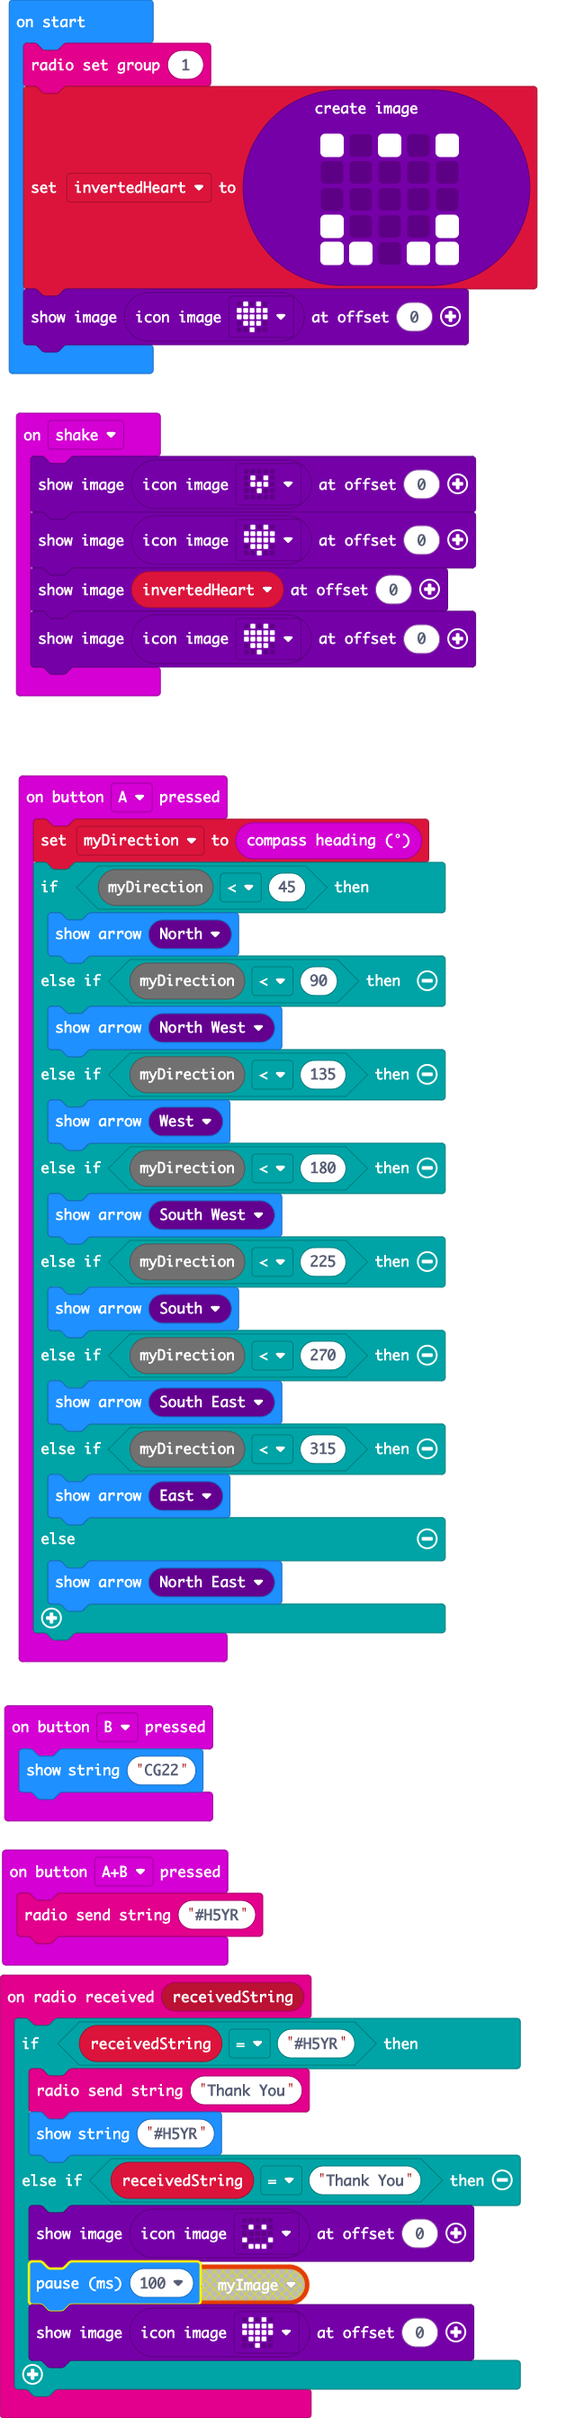
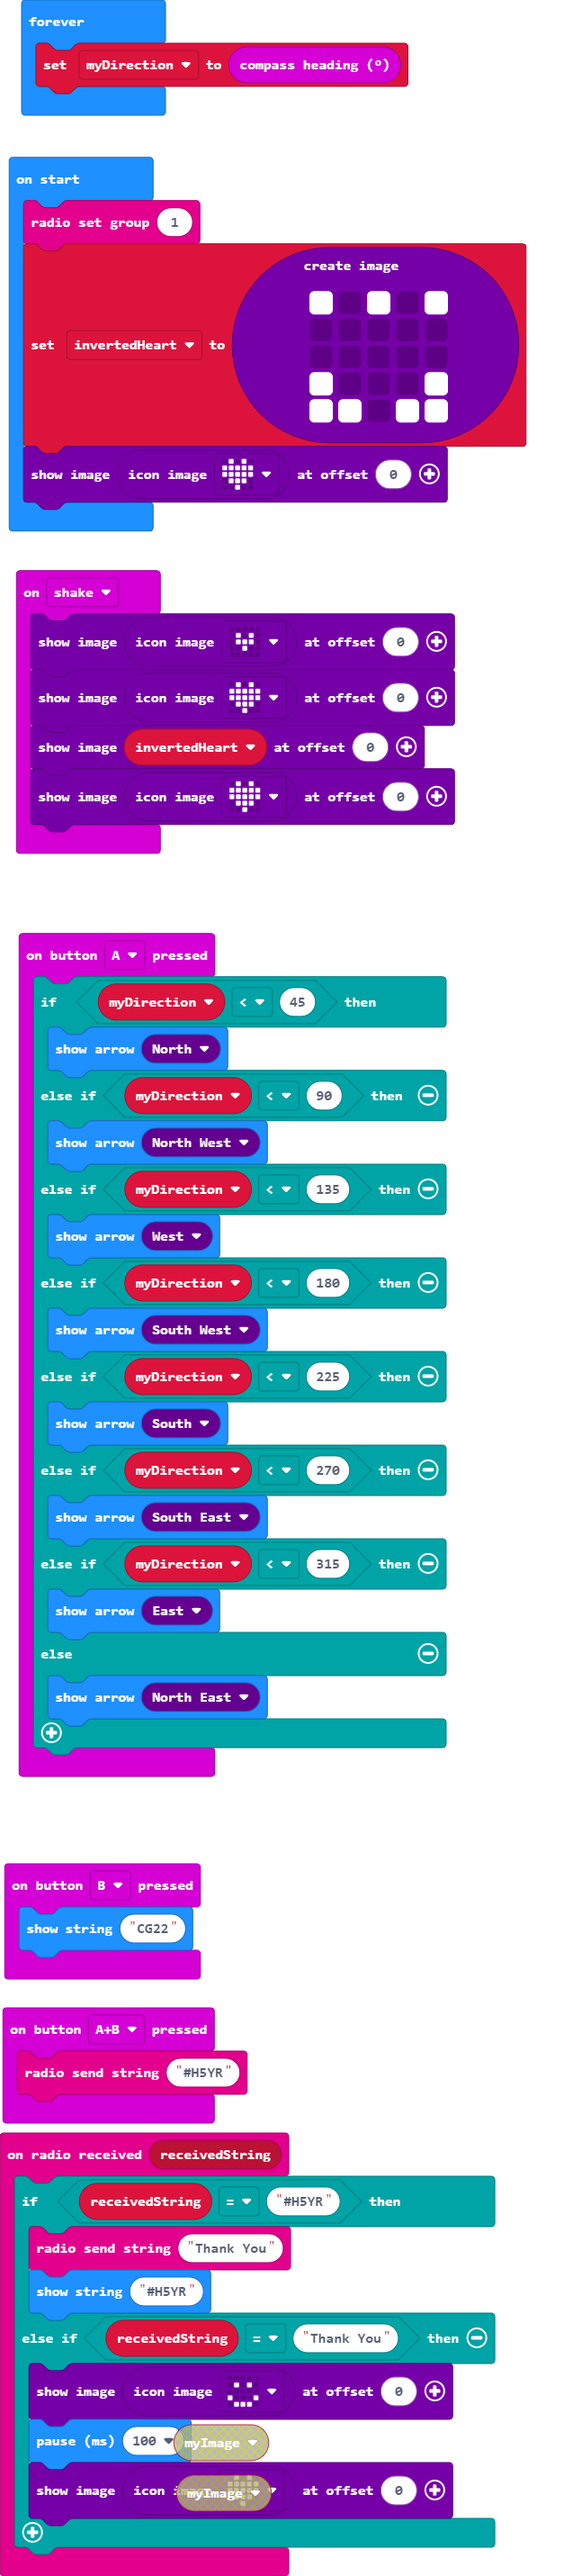
Fixed compass direction calibration

diff --git a/main.ts b/main.ts
@@ -1,18 +1,17 @@
 input.onButtonPressed(Button.A, function () {
-    myDirection2 = input.compassHeading()
-    if (myDirection < 45) {
+    if (myDirection2 < 45) {
         basic.showArrow(ArrowNames.North)
-    } else if (myDirection < 90) {
+    } else if (myDirection2 < 90) {
         basic.showArrow(ArrowNames.NorthWest)
-    } else if (myDirection < 135) {
+    } else if (myDirection2 < 135) {
         basic.showArrow(ArrowNames.West)
-    } else if (myDirection < 180) {
+    } else if (myDirection2 < 180) {
         basic.showArrow(ArrowNames.SouthWest)
-    } else if (myDirection < 225) {
+    } else if (myDirection2 < 225) {
         basic.showArrow(ArrowNames.South)
-    } else if (myDirection < 270) {
+    } else if (myDirection2 < 270) {
         basic.showArrow(ArrowNames.SouthEast)
-    } else if (myDirection < 315) {
+    } else if (myDirection2 < 315) {
         basic.showArrow(ArrowNames.East)
     } else {
         basic.showArrow(ArrowNames.NorthEast)
@@ -51,3 +50,6 @@ invertedHeart = images.createImage(`
     # # . # #
     `)
 images.iconImage(IconNames.Heart).showImage(0)
+basic.forever(function () {
+    myDirection2 = input.compassHeading()
+})
